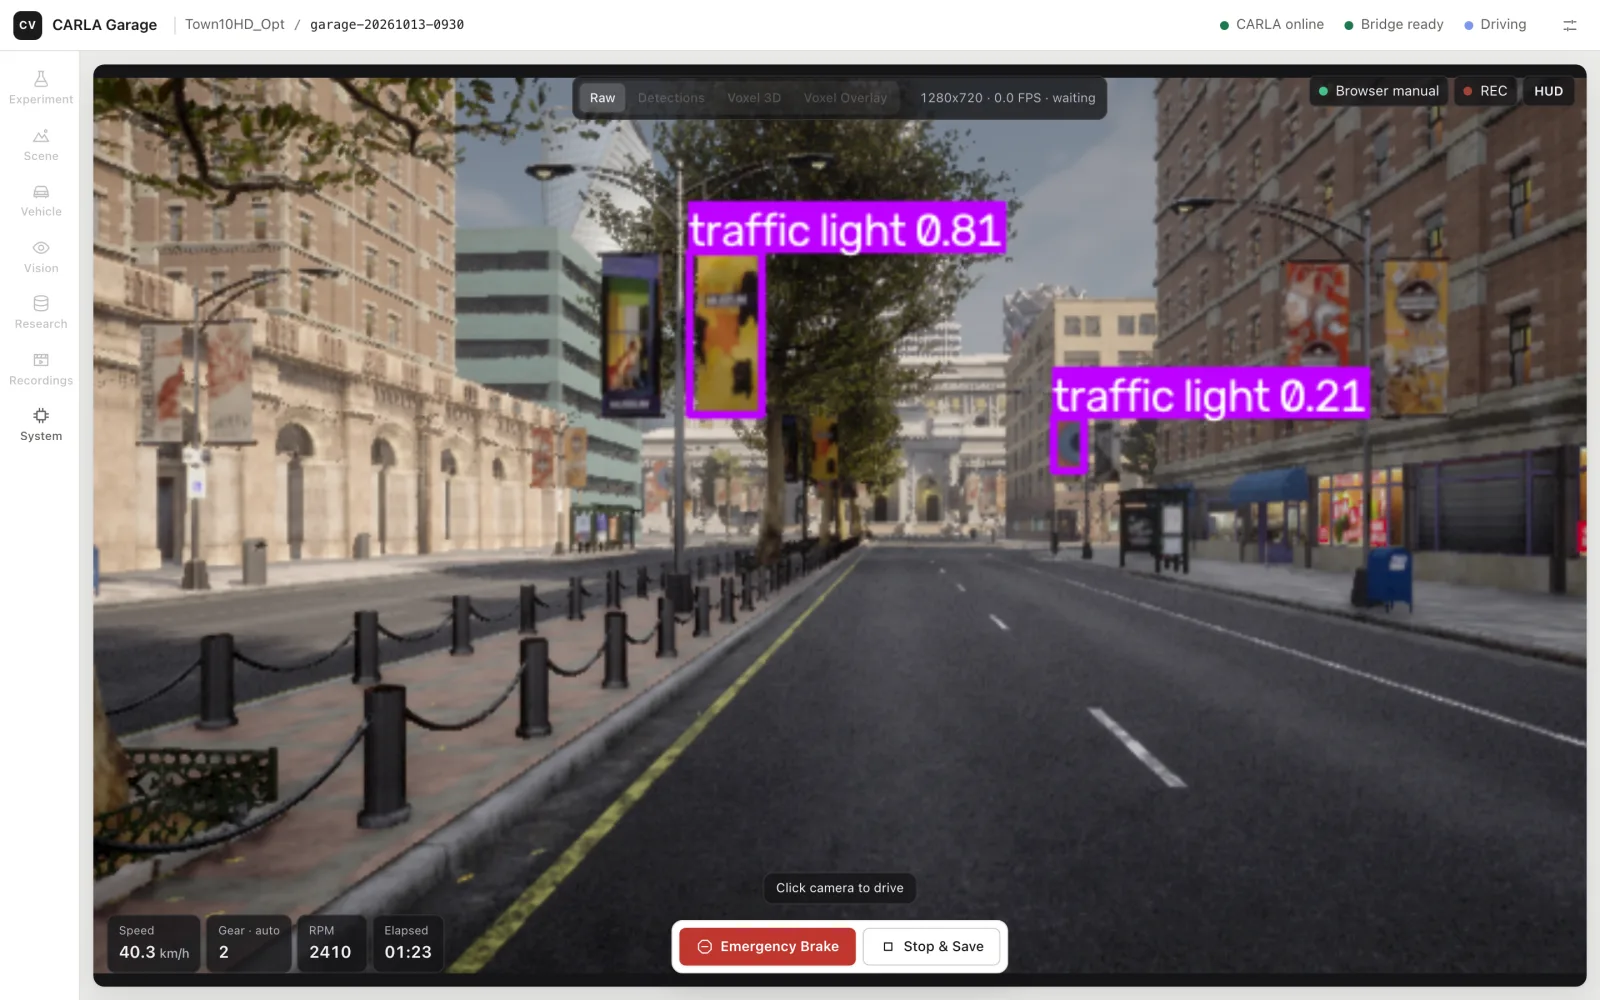
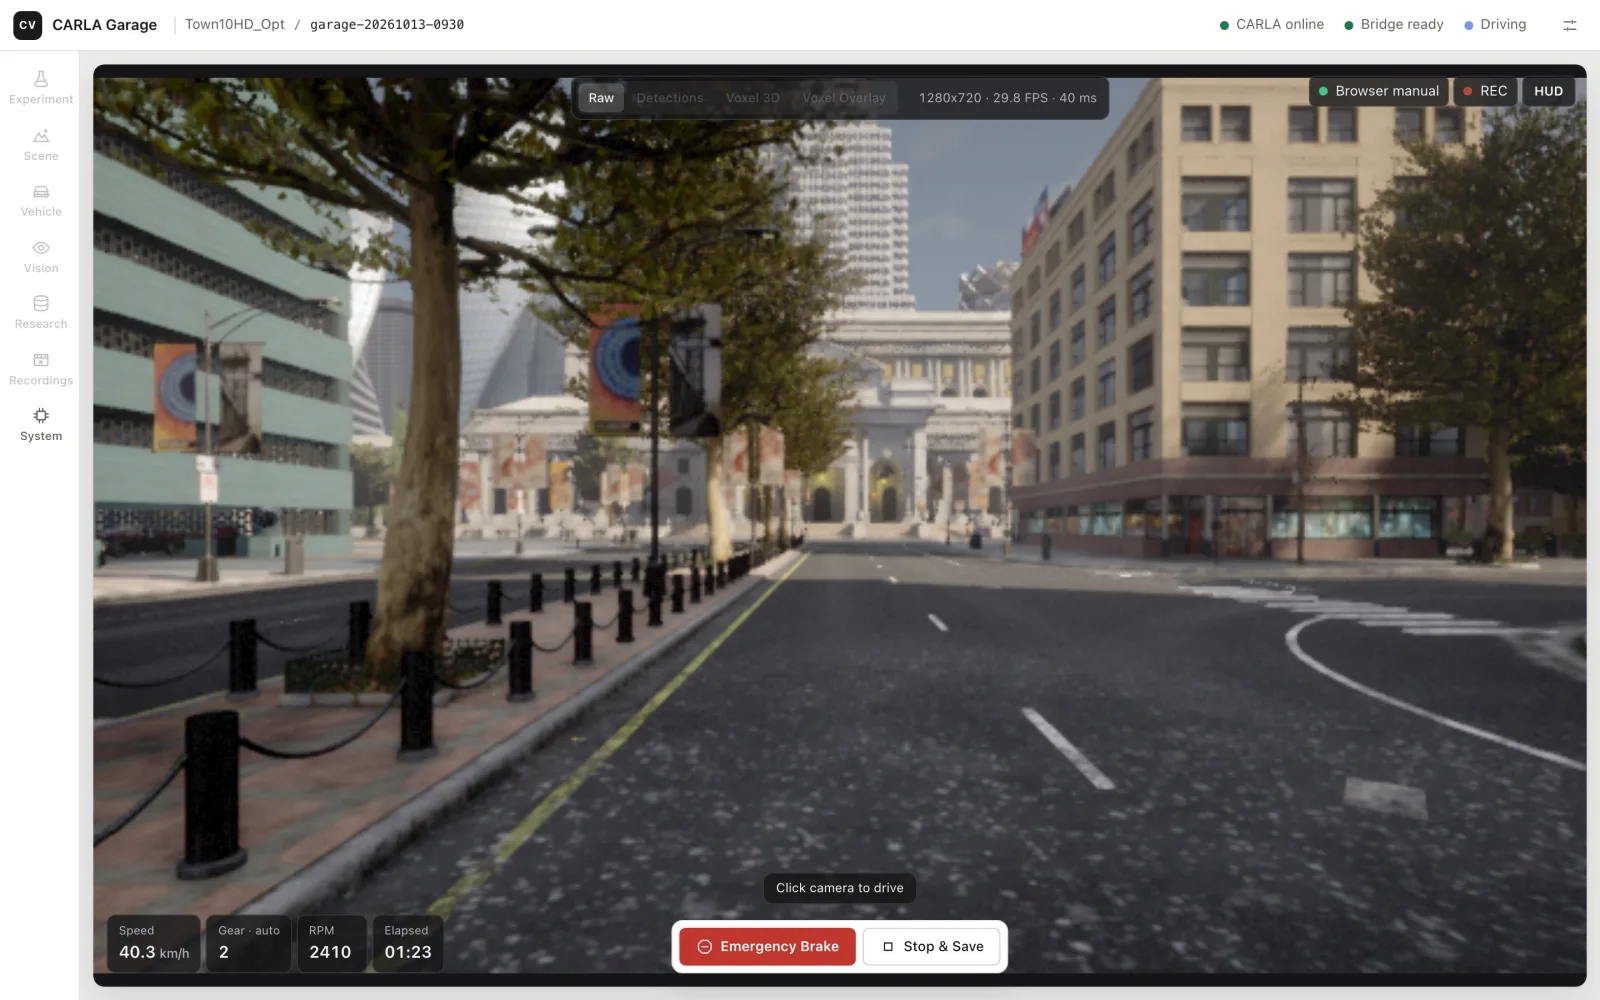
Use a clean raw CARLA frame in the driving screenshots
The previous driving screenshots replayed an old YOLO overlay frame whose 'traffic light' boxes were street banners, while the view toggle showed Raw. They now replay a raw Town10HD frame from the sample dataset, with realistic stream statistics, and the captions no longer mention detections.

diff --git a/README.fa.md b/README.fa.md
@@ -4,7 +4,7 @@
 
 یک کنسول پژوهشی محلی برای CARLA 0.9.16: گاراژ تمامصفحه، رانندگی دستی و با Traffic Manager، تشخیص بینایی زنده با یک دوربین، ضبط، و فرایندهای تکرارپذیر داده و مدل، بدون اینکه پژوهشگر برای هر جلسه کد پایتون بنویسد.
 
-<p align="center"><img src="docs/images/console-drive.webp" alt="رانندگی در کنسول وب: دوربین زندهی CARLA با تشخیصها، HUD، ترمز اضطراری و توقف و ذخیره" width="860"></p>
+<p align="center"><img src="docs/images/console-drive.webp" alt="رانندگی در کنسول وب: دوربین زندهی CARLA، HUD، ترمز اضطراری و توقف و ذخیره" width="860"></p>
 
 این مخزن یک ابزار پژوهشی برای شبکهی محلی است، نه یک سرویس اینترنتی یا چندکاربره. سرور مرورگر عمداً فقط روی loopback (همین کامپیوتر) گوش میدهد.
 

diff --git a/docs/user_guide_fa.md b/docs/user_guide_fa.md
@@ -195,4 +195,4 @@ cd "$HOME/CARLA-Vision"
 
 جزئیات بیشتر (انگلیسی): [راهنمای لانچر](desktop_launcher.md)، [راهنمای بازیابی](restore_project.md)، [نصب دستی](manual_setup.md).
 
-اسکرینشاتها کنسول را بدون اتصال به شبیهساز نشان میدهند، بهجز تصاویر رانندگی که یک فریم ضبطشده از CARLA (`samples/recordings/`) را بازپخش میکنند.
+اسکرینشاتها کنسول را بدون اتصال به شبیهساز نشان میدهند، بهجز تصاویر رانندگی که یک فریم خام دوربین ضبطشده از CARLA در دادهی نمونه (`samples/data/`) را بازپخش میکنند.

diff --git a/README.md b/README.md
@@ -7,7 +7,7 @@ manual and Traffic Manager driving, live monocular vision inference, recording,
 and reproducible dataset/model workflows without requiring researchers to write
 Python for every session.
 
-<p align="center"><img src="docs/images/console-drive.webp" alt="Driving in the web console: live CARLA camera with detections, HUD, Emergency Brake and Stop &amp; Save" width="860"></p>
+<p align="center"><img src="docs/images/console-drive.webp" alt="Driving in the web console: live CARLA camera, HUD, Emergency Brake and Stop &amp; Save" width="860"></p>
 
 This repository is a LAN research tool, not an internet-facing or multi-user
 service. The browser server deliberately binds to loopback only.

diff --git a/docs/user_guide.md b/docs/user_guide.md
@@ -241,4 +241,5 @@ More detail: [launcher guide](desktop_launcher.md),
 [recovery guide](restore_project.md), [manual setup](manual_setup.md).
 
 Screenshots show the console without a simulator connected, except the driving
-images, which replay a frame recorded from CARLA (`samples/recordings/`).
+images, which replay a raw camera frame recorded from CARLA in the sample
+dataset (`samples/data/`).
